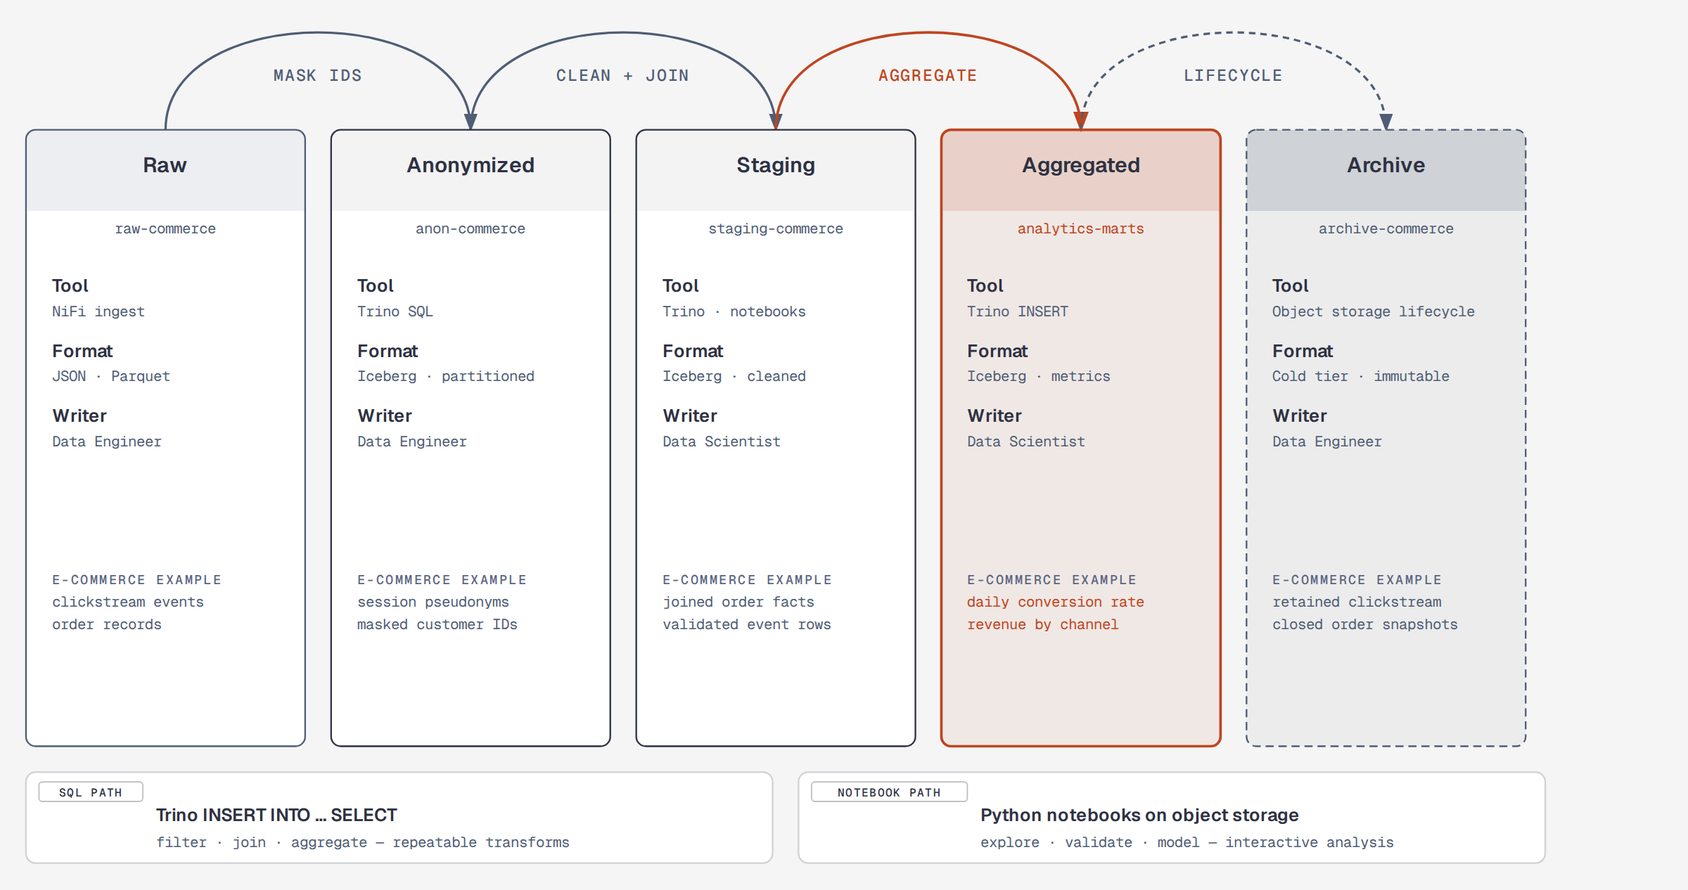
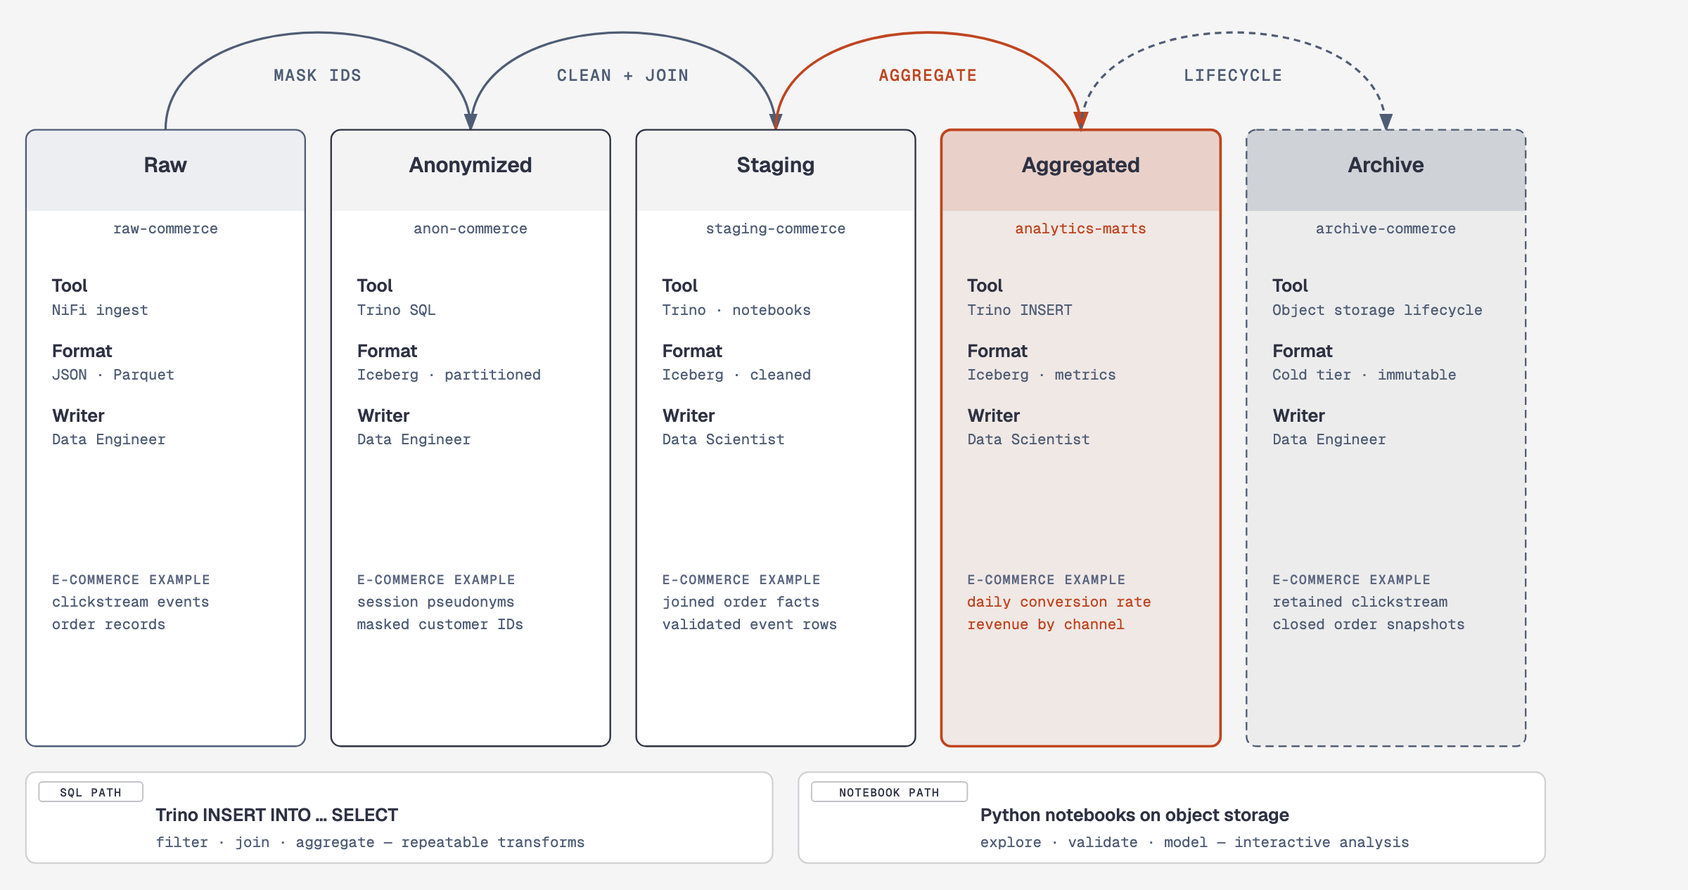
Revert "fix(medallion): replace foreignObject labels"

diff --git a/skills/diagram-design/assets/example-medallion-full.html b/skills/diagram-design/assets/example-medallion-full.html
@@ -22,6 +22,7 @@
     .tier-title { fill: var(--ink); font: 600 13px var(--sans); text-anchor: middle; }
     .bucket, .field-value, .example-value { fill: var(--muted); font: 400 9px var(--mono); }
     .bucket { text-anchor: middle; }
+    .field-value { color: var(--muted); }
     .focal-text { fill: var(--accent); }
     .field-label { fill: var(--ink); font: 600 11px var(--sans); }
     .example-label, .arc-label, .path-tag { font-family: var(--mono); font-weight: 500; letter-spacing: 0.08em; text-transform: uppercase; }
@@ -88,11 +89,11 @@
       <text x="102" y="106" class="tier-title">Raw</text>
       <text x="102" y="144" class="bucket">raw-commerce</text>
       <text x="32" y="180" class="field-label">Tool</text>
-      <text x="32" y="195" class="field-value">NiFi ingest</text>
+      <foreignObject x="32" y="186" width="140" height="24"><div xmlns="http://www.w3.org/1999/xhtml" class="field-value" style="line-height:1.25">NiFi ingest</div></foreignObject>
       <text x="32" y="220" class="field-label">Format</text>
-      <text x="32" y="235" class="field-value">JSON · Parquet</text>
+      <foreignObject x="32" y="226" width="140" height="24"><div xmlns="http://www.w3.org/1999/xhtml" class="field-value" style="line-height:1.25">JSON · Parquet</div></foreignObject>
       <text x="32" y="260" class="field-label">Writer</text>
-      <text x="32" y="275" class="field-value">Data Engineer</text>
+      <foreignObject x="32" y="266" width="140" height="24"><div xmlns="http://www.w3.org/1999/xhtml" class="field-value" style="line-height:1.25">Data Engineer</div></foreignObject>
       <text x="32" y="360" class="example-label">E-COMMERCE EXAMPLE</text>
       <text x="32" y="374" class="example-value">clickstream events</text>
       <text x="32" y="388" class="example-value">order records</text>
@@ -104,11 +105,11 @@
       <text x="290" y="106" class="tier-title">Anonymized</text>
       <text x="290" y="144" class="bucket">anon-commerce</text>
       <text x="220" y="180" class="field-label">Tool</text>
-      <text x="220" y="195" class="field-value">Trino SQL</text>
+      <foreignObject x="220" y="186" width="140" height="24"><div xmlns="http://www.w3.org/1999/xhtml" class="field-value" style="line-height:1.25">Trino SQL</div></foreignObject>
       <text x="220" y="220" class="field-label">Format</text>
-      <text x="220" y="235" class="field-value">Iceberg · partitioned</text>
+      <foreignObject x="220" y="226" width="140" height="24"><div xmlns="http://www.w3.org/1999/xhtml" class="field-value" style="line-height:1.25">Iceberg · partitioned</div></foreignObject>
       <text x="220" y="260" class="field-label">Writer</text>
-      <text x="220" y="275" class="field-value">Data Engineer</text>
+      <foreignObject x="220" y="266" width="140" height="24"><div xmlns="http://www.w3.org/1999/xhtml" class="field-value" style="line-height:1.25">Data Engineer</div></foreignObject>
       <text x="220" y="360" class="example-label">E-COMMERCE EXAMPLE</text>
       <text x="220" y="374" class="example-value">session pseudonyms</text>
       <text x="220" y="388" class="example-value">masked customer IDs</text>
@@ -120,11 +121,11 @@
       <text x="478" y="106" class="tier-title">Staging</text>
       <text x="478" y="144" class="bucket">staging-commerce</text>
       <text x="408" y="180" class="field-label">Tool</text>
-      <text x="408" y="195" class="field-value">Trino · notebooks</text>
+      <foreignObject x="408" y="186" width="140" height="24"><div xmlns="http://www.w3.org/1999/xhtml" class="field-value" style="line-height:1.25">Trino · notebooks</div></foreignObject>
       <text x="408" y="220" class="field-label">Format</text>
-      <text x="408" y="235" class="field-value">Iceberg · cleaned</text>
+      <foreignObject x="408" y="226" width="140" height="24"><div xmlns="http://www.w3.org/1999/xhtml" class="field-value" style="line-height:1.25">Iceberg · cleaned</div></foreignObject>
       <text x="408" y="260" class="field-label">Writer</text>
-      <text x="408" y="275" class="field-value">Data Scientist</text>
+      <foreignObject x="408" y="266" width="140" height="24"><div xmlns="http://www.w3.org/1999/xhtml" class="field-value" style="line-height:1.25">Data Scientist</div></foreignObject>
       <text x="408" y="360" class="example-label">E-COMMERCE EXAMPLE</text>
       <text x="408" y="374" class="example-value">joined order facts</text>
       <text x="408" y="388" class="example-value">validated event rows</text>
@@ -136,11 +137,11 @@
       <text x="666" y="106" class="tier-title">Aggregated</text>
       <text x="666" y="144" class="bucket focal-text">analytics-marts</text>
       <text x="596" y="180" class="field-label">Tool</text>
-      <text x="596" y="195" class="field-value">Trino INSERT</text>
+      <foreignObject x="596" y="186" width="140" height="24"><div xmlns="http://www.w3.org/1999/xhtml" class="field-value" style="line-height:1.25">Trino INSERT</div></foreignObject>
       <text x="596" y="220" class="field-label">Format</text>
-      <text x="596" y="235" class="field-value">Iceberg · metrics</text>
+      <foreignObject x="596" y="226" width="140" height="24"><div xmlns="http://www.w3.org/1999/xhtml" class="field-value" style="line-height:1.25">Iceberg · metrics</div></foreignObject>
       <text x="596" y="260" class="field-label">Writer</text>
-      <text x="596" y="275" class="field-value">Data Scientist</text>
+      <foreignObject x="596" y="266" width="140" height="24"><div xmlns="http://www.w3.org/1999/xhtml" class="field-value" style="line-height:1.25">Data Scientist</div></foreignObject>
       <text x="596" y="360" class="example-label">E-COMMERCE EXAMPLE</text>
       <text x="596" y="374" class="example-value focal-text">daily conversion rate</text>
       <text x="596" y="388" class="example-value focal-text">revenue by channel</text>
@@ -152,11 +153,11 @@
       <text x="854" y="106" class="tier-title">Archive</text>
       <text x="854" y="144" class="bucket">archive-commerce</text>
       <text x="784" y="180" class="field-label">Tool</text>
-      <text x="784" y="195" class="field-value">Object storage lifecycle</text>
+      <foreignObject x="784" y="186" width="140" height="24"><div xmlns="http://www.w3.org/1999/xhtml" class="field-value" style="line-height:1.25">Object storage lifecycle</div></foreignObject>
       <text x="784" y="220" class="field-label">Format</text>
-      <text x="784" y="235" class="field-value">Cold tier · immutable</text>
+      <foreignObject x="784" y="226" width="140" height="24"><div xmlns="http://www.w3.org/1999/xhtml" class="field-value" style="line-height:1.25">Cold tier · immutable</div></foreignObject>
       <text x="784" y="260" class="field-label">Writer</text>
-      <text x="784" y="275" class="field-value">Data Engineer</text>
+      <foreignObject x="784" y="266" width="140" height="24"><div xmlns="http://www.w3.org/1999/xhtml" class="field-value" style="line-height:1.25">Data Engineer</div></foreignObject>
       <text x="784" y="360" class="example-label">E-COMMERCE EXAMPLE</text>
       <text x="784" y="374" class="example-value">retained clickstream</text>
       <text x="784" y="388" class="example-value">closed order snapshots</text>

diff --git a/skills/diagram-design/assets/example-medallion-dark.html b/skills/diagram-design/assets/example-medallion-dark.html
@@ -22,6 +22,7 @@
     .tier-title { fill: var(--ink); font: 600 13px var(--sans); text-anchor: middle; }
     .bucket, .field-value, .example-value { fill: var(--muted); font: 400 9px var(--mono); }
     .bucket { text-anchor: middle; }
+    .field-value { color: var(--muted); }
     .focal-text { fill: var(--accent); }
     .field-label { fill: var(--ink); font: 600 11px var(--sans); }
     .example-label, .arc-label, .path-tag { font-family: var(--mono); font-weight: 500; letter-spacing: 0.08em; text-transform: uppercase; }
@@ -68,11 +69,11 @@
       <text x="102" y="106" class="tier-title">Raw</text>
       <text x="102" y="144" class="bucket">raw-commerce</text>
       <text x="32" y="180" class="field-label">Tool</text>
-      <text x="32" y="195" class="field-value">NiFi ingest</text>
+      <foreignObject x="32" y="186" width="140" height="24"><div xmlns="http://www.w3.org/1999/xhtml" class="field-value" style="line-height:1.25">NiFi ingest</div></foreignObject>
       <text x="32" y="220" class="field-label">Format</text>
-      <text x="32" y="235" class="field-value">JSON · Parquet</text>
+      <foreignObject x="32" y="226" width="140" height="24"><div xmlns="http://www.w3.org/1999/xhtml" class="field-value" style="line-height:1.25">JSON · Parquet</div></foreignObject>
       <text x="32" y="260" class="field-label">Writer</text>
-      <text x="32" y="275" class="field-value">Data Engineer</text>
+      <foreignObject x="32" y="266" width="140" height="24"><div xmlns="http://www.w3.org/1999/xhtml" class="field-value" style="line-height:1.25">Data Engineer</div></foreignObject>
       <text x="32" y="360" class="example-label">E-COMMERCE EXAMPLE</text>
       <text x="32" y="374" class="example-value">clickstream events</text>
       <text x="32" y="388" class="example-value">order records</text>
@@ -84,11 +85,11 @@
       <text x="290" y="106" class="tier-title">Anonymized</text>
       <text x="290" y="144" class="bucket">anon-commerce</text>
       <text x="220" y="180" class="field-label">Tool</text>
-      <text x="220" y="195" class="field-value">Trino SQL</text>
+      <foreignObject x="220" y="186" width="140" height="24"><div xmlns="http://www.w3.org/1999/xhtml" class="field-value" style="line-height:1.25">Trino SQL</div></foreignObject>
       <text x="220" y="220" class="field-label">Format</text>
-      <text x="220" y="235" class="field-value">Iceberg · partitioned</text>
+      <foreignObject x="220" y="226" width="140" height="24"><div xmlns="http://www.w3.org/1999/xhtml" class="field-value" style="line-height:1.25">Iceberg · partitioned</div></foreignObject>
       <text x="220" y="260" class="field-label">Writer</text>
-      <text x="220" y="275" class="field-value">Data Engineer</text>
+      <foreignObject x="220" y="266" width="140" height="24"><div xmlns="http://www.w3.org/1999/xhtml" class="field-value" style="line-height:1.25">Data Engineer</div></foreignObject>
       <text x="220" y="360" class="example-label">E-COMMERCE EXAMPLE</text>
       <text x="220" y="374" class="example-value">session pseudonyms</text>
       <text x="220" y="388" class="example-value">masked customer IDs</text>
@@ -100,11 +101,11 @@
       <text x="478" y="106" class="tier-title">Staging</text>
       <text x="478" y="144" class="bucket">staging-commerce</text>
       <text x="408" y="180" class="field-label">Tool</text>
-      <text x="408" y="195" class="field-value">Trino · notebooks</text>
+      <foreignObject x="408" y="186" width="140" height="24"><div xmlns="http://www.w3.org/1999/xhtml" class="field-value" style="line-height:1.25">Trino · notebooks</div></foreignObject>
       <text x="408" y="220" class="field-label">Format</text>
-      <text x="408" y="235" class="field-value">Iceberg · cleaned</text>
+      <foreignObject x="408" y="226" width="140" height="24"><div xmlns="http://www.w3.org/1999/xhtml" class="field-value" style="line-height:1.25">Iceberg · cleaned</div></foreignObject>
       <text x="408" y="260" class="field-label">Writer</text>
-      <text x="408" y="275" class="field-value">Data Scientist</text>
+      <foreignObject x="408" y="266" width="140" height="24"><div xmlns="http://www.w3.org/1999/xhtml" class="field-value" style="line-height:1.25">Data Scientist</div></foreignObject>
       <text x="408" y="360" class="example-label">E-COMMERCE EXAMPLE</text>
       <text x="408" y="374" class="example-value">joined order facts</text>
       <text x="408" y="388" class="example-value">validated event rows</text>
@@ -116,11 +117,11 @@
       <text x="666" y="106" class="tier-title">Aggregated</text>
       <text x="666" y="144" class="bucket focal-text">analytics-marts</text>
       <text x="596" y="180" class="field-label">Tool</text>
-      <text x="596" y="195" class="field-value">Trino INSERT</text>
+      <foreignObject x="596" y="186" width="140" height="24"><div xmlns="http://www.w3.org/1999/xhtml" class="field-value" style="line-height:1.25">Trino INSERT</div></foreignObject>
       <text x="596" y="220" class="field-label">Format</text>
-      <text x="596" y="235" class="field-value">Iceberg · metrics</text>
+      <foreignObject x="596" y="226" width="140" height="24"><div xmlns="http://www.w3.org/1999/xhtml" class="field-value" style="line-height:1.25">Iceberg · metrics</div></foreignObject>
       <text x="596" y="260" class="field-label">Writer</text>
-      <text x="596" y="275" class="field-value">Data Scientist</text>
+      <foreignObject x="596" y="266" width="140" height="24"><div xmlns="http://www.w3.org/1999/xhtml" class="field-value" style="line-height:1.25">Data Scientist</div></foreignObject>
       <text x="596" y="360" class="example-label">E-COMMERCE EXAMPLE</text>
       <text x="596" y="374" class="example-value focal-text">daily conversion rate</text>
       <text x="596" y="388" class="example-value focal-text">revenue by channel</text>
@@ -132,11 +133,11 @@
       <text x="854" y="106" class="tier-title">Archive</text>
       <text x="854" y="144" class="bucket">archive-commerce</text>
       <text x="784" y="180" class="field-label">Tool</text>
-      <text x="784" y="195" class="field-value">Object storage lifecycle</text>
+      <foreignObject x="784" y="186" width="140" height="24"><div xmlns="http://www.w3.org/1999/xhtml" class="field-value" style="line-height:1.25">Object storage lifecycle</div></foreignObject>
       <text x="784" y="220" class="field-label">Format</text>
-      <text x="784" y="235" class="field-value">Cold tier · immutable</text>
+      <foreignObject x="784" y="226" width="140" height="24"><div xmlns="http://www.w3.org/1999/xhtml" class="field-value" style="line-height:1.25">Cold tier · immutable</div></foreignObject>
       <text x="784" y="260" class="field-label">Writer</text>
-      <text x="784" y="275" class="field-value">Data Engineer</text>
+      <foreignObject x="784" y="266" width="140" height="24"><div xmlns="http://www.w3.org/1999/xhtml" class="field-value" style="line-height:1.25">Data Engineer</div></foreignObject>
       <text x="784" y="360" class="example-label">E-COMMERCE EXAMPLE</text>
       <text x="784" y="374" class="example-value">retained clickstream</text>
       <text x="784" y="388" class="example-value">closed order snapshots</text>

diff --git a/skills/diagram-design/assets/example-medallion.html b/skills/diagram-design/assets/example-medallion.html
@@ -22,6 +22,7 @@
     .tier-title { fill: var(--ink); font: 600 13px var(--sans); text-anchor: middle; }
     .bucket, .field-value, .example-value { fill: var(--muted); font: 400 9px var(--mono); }
     .bucket { text-anchor: middle; }
+    .field-value { color: var(--muted); }
     .focal-text { fill: var(--accent); }
     .field-label { fill: var(--ink); font: 600 11px var(--sans); }
     .example-label, .arc-label, .path-tag { font-family: var(--mono); font-weight: 500; letter-spacing: 0.08em; text-transform: uppercase; }
@@ -68,11 +69,11 @@
       <text x="102" y="106" class="tier-title">Raw</text>
       <text x="102" y="144" class="bucket">raw-commerce</text>
       <text x="32" y="180" class="field-label">Tool</text>
-      <text x="32" y="195" class="field-value">NiFi ingest</text>
+      <foreignObject x="32" y="186" width="140" height="24"><div xmlns="http://www.w3.org/1999/xhtml" class="field-value" style="line-height:1.25">NiFi ingest</div></foreignObject>
       <text x="32" y="220" class="field-label">Format</text>
-      <text x="32" y="235" class="field-value">JSON · Parquet</text>
+      <foreignObject x="32" y="226" width="140" height="24"><div xmlns="http://www.w3.org/1999/xhtml" class="field-value" style="line-height:1.25">JSON · Parquet</div></foreignObject>
       <text x="32" y="260" class="field-label">Writer</text>
-      <text x="32" y="275" class="field-value">Data Engineer</text>
+      <foreignObject x="32" y="266" width="140" height="24"><div xmlns="http://www.w3.org/1999/xhtml" class="field-value" style="line-height:1.25">Data Engineer</div></foreignObject>
       <text x="32" y="360" class="example-label">E-COMMERCE EXAMPLE</text>
       <text x="32" y="374" class="example-value">clickstream events</text>
       <text x="32" y="388" class="example-value">order records</text>
@@ -84,11 +85,11 @@
       <text x="290" y="106" class="tier-title">Anonymized</text>
       <text x="290" y="144" class="bucket">anon-commerce</text>
       <text x="220" y="180" class="field-label">Tool</text>
-      <text x="220" y="195" class="field-value">Trino SQL</text>
+      <foreignObject x="220" y="186" width="140" height="24"><div xmlns="http://www.w3.org/1999/xhtml" class="field-value" style="line-height:1.25">Trino SQL</div></foreignObject>
       <text x="220" y="220" class="field-label">Format</text>
-      <text x="220" y="235" class="field-value">Iceberg · partitioned</text>
+      <foreignObject x="220" y="226" width="140" height="24"><div xmlns="http://www.w3.org/1999/xhtml" class="field-value" style="line-height:1.25">Iceberg · partitioned</div></foreignObject>
       <text x="220" y="260" class="field-label">Writer</text>
-      <text x="220" y="275" class="field-value">Data Engineer</text>
+      <foreignObject x="220" y="266" width="140" height="24"><div xmlns="http://www.w3.org/1999/xhtml" class="field-value" style="line-height:1.25">Data Engineer</div></foreignObject>
       <text x="220" y="360" class="example-label">E-COMMERCE EXAMPLE</text>
       <text x="220" y="374" class="example-value">session pseudonyms</text>
       <text x="220" y="388" class="example-value">masked customer IDs</text>
@@ -100,11 +101,11 @@
       <text x="478" y="106" class="tier-title">Staging</text>
       <text x="478" y="144" class="bucket">staging-commerce</text>
       <text x="408" y="180" class="field-label">Tool</text>
-      <text x="408" y="195" class="field-value">Trino · notebooks</text>
+      <foreignObject x="408" y="186" width="140" height="24"><div xmlns="http://www.w3.org/1999/xhtml" class="field-value" style="line-height:1.25">Trino · notebooks</div></foreignObject>
       <text x="408" y="220" class="field-label">Format</text>
-      <text x="408" y="235" class="field-value">Iceberg · cleaned</text>
+      <foreignObject x="408" y="226" width="140" height="24"><div xmlns="http://www.w3.org/1999/xhtml" class="field-value" style="line-height:1.25">Iceberg · cleaned</div></foreignObject>
       <text x="408" y="260" class="field-label">Writer</text>
-      <text x="408" y="275" class="field-value">Data Scientist</text>
+      <foreignObject x="408" y="266" width="140" height="24"><div xmlns="http://www.w3.org/1999/xhtml" class="field-value" style="line-height:1.25">Data Scientist</div></foreignObject>
       <text x="408" y="360" class="example-label">E-COMMERCE EXAMPLE</text>
       <text x="408" y="374" class="example-value">joined order facts</text>
       <text x="408" y="388" class="example-value">validated event rows</text>
@@ -116,11 +117,11 @@
       <text x="666" y="106" class="tier-title">Aggregated</text>
       <text x="666" y="144" class="bucket focal-text">analytics-marts</text>
       <text x="596" y="180" class="field-label">Tool</text>
-      <text x="596" y="195" class="field-value">Trino INSERT</text>
+      <foreignObject x="596" y="186" width="140" height="24"><div xmlns="http://www.w3.org/1999/xhtml" class="field-value" style="line-height:1.25">Trino INSERT</div></foreignObject>
       <text x="596" y="220" class="field-label">Format</text>
-      <text x="596" y="235" class="field-value">Iceberg · metrics</text>
+      <foreignObject x="596" y="226" width="140" height="24"><div xmlns="http://www.w3.org/1999/xhtml" class="field-value" style="line-height:1.25">Iceberg · metrics</div></foreignObject>
       <text x="596" y="260" class="field-label">Writer</text>
-      <text x="596" y="275" class="field-value">Data Scientist</text>
+      <foreignObject x="596" y="266" width="140" height="24"><div xmlns="http://www.w3.org/1999/xhtml" class="field-value" style="line-height:1.25">Data Scientist</div></foreignObject>
       <text x="596" y="360" class="example-label">E-COMMERCE EXAMPLE</text>
       <text x="596" y="374" class="example-value focal-text">daily conversion rate</text>
       <text x="596" y="388" class="example-value focal-text">revenue by channel</text>
@@ -132,11 +133,11 @@
       <text x="854" y="106" class="tier-title">Archive</text>
       <text x="854" y="144" class="bucket">archive-commerce</text>
       <text x="784" y="180" class="field-label">Tool</text>
-      <text x="784" y="195" class="field-value">Object storage lifecycle</text>
+      <foreignObject x="784" y="186" width="140" height="24"><div xmlns="http://www.w3.org/1999/xhtml" class="field-value" style="line-height:1.25">Object storage lifecycle</div></foreignObject>
       <text x="784" y="220" class="field-label">Format</text>
-      <text x="784" y="235" class="field-value">Cold tier · immutable</text>
+      <foreignObject x="784" y="226" width="140" height="24"><div xmlns="http://www.w3.org/1999/xhtml" class="field-value" style="line-height:1.25">Cold tier · immutable</div></foreignObject>
       <text x="784" y="260" class="field-label">Writer</text>
-      <text x="784" y="275" class="field-value">Data Engineer</text>
+      <foreignObject x="784" y="266" width="140" height="24"><div xmlns="http://www.w3.org/1999/xhtml" class="field-value" style="line-height:1.25">Data Engineer</div></foreignObject>
       <text x="784" y="360" class="example-label">E-COMMERCE EXAMPLE</text>
       <text x="784" y="374" class="example-value">retained clickstream</text>
       <text x="784" y="388" class="example-value">closed order snapshots</text>

diff --git a/skills/diagram-design/references/type-medallion.md b/skills/diagram-design/references/type-medallion.md
@@ -117,23 +117,25 @@ bucket_text           at (tier_cx(i), 144)                # sublabel role, muted
 field_x               = tier_x(i) + 16                    # 16-px left inset for field text
 field_w               = 140                               # 172-px tier_w minus two 16-px insets
 field rows (absolute y):
-  tool_label  at 180,    tool_value line 0 baseline at 195
-  format_label at 220,   format_value line 0 baseline at 235
-  writer_label at 260,   writer_value line 0 baseline at 275
+  tool_label  at 180,    tool_value  at 186 (foreignObject, height 24)
+  format_label at 220,   format_value at 226 (foreignObject, height 24)
+  writer_label at 260,   writer_value at 266 (foreignObject, height 24)
   # gap (open whitespace below writer row, above the example section)
   example_label_text at 360,  example_line_0 at 374,  example_line_1 at 388
 ```
 
-**Field-value wrapping rule:** field values (tool / format / writer) use native SVG `<text>` so standalone and sanitized exports retain them. Keep values to approximately 24 monospace characters per line. If a value exceeds the 140 px field width, split it at a word boundary into no more than two `<tspan>` lines; the 26-px gap to the next field's label absorbs the second line cleanly.
+**Field-value wrapping rule:** field values (tool / format / writer) render inside an SVG `<foreignObject>` with an HTML `<div>` so they auto-wrap when text exceeds 140 px. Each `foreignObject` is 140 wide × 24 tall (fits 2 lines in the `sublabel` role at 1.25 line-height). The 26-px gap to the next field's label absorbs the second line cleanly.
 
 ```svg
-<text x="{field_x}" y="{line_0_baseline}" class="field-value">
-  <tspan x="{field_x}">{line_0}</tspan>
-  <tspan x="{field_x}" dy="11">{line_1}</tspan>
-</text>
+<foreignObject x="{field_x}" y="{value_top}" width="140" height="24">
+  <div xmlns="http://www.w3.org/1999/xhtml"
+       style="font-family: {sublabel}; color: {muted}; line-height: 1.25;">
+    {field_value}
+  </div>
+</foreignObject>
 ```
 
-Omit the `<tspan>` wrappers when the value fits on one line. SVG text does not auto-wrap, so never rely on `inline-size` or `foreignObject` for this field.
+The HTML namespace declaration on the `<div>` is required for SVG to render the inline content. Browsers and Playwright/Chromium render this faithfully; if your export target doesn't support `<foreignObject>` (some older Inkscape builds), hand-split long values into two `<tspan>` lines instead.
 
 Field labels use the `node-name` role at 11px in ink. Field values use the `sublabel` role in muted. Bucket and field values can be retinted by `color` override (§4).
 
